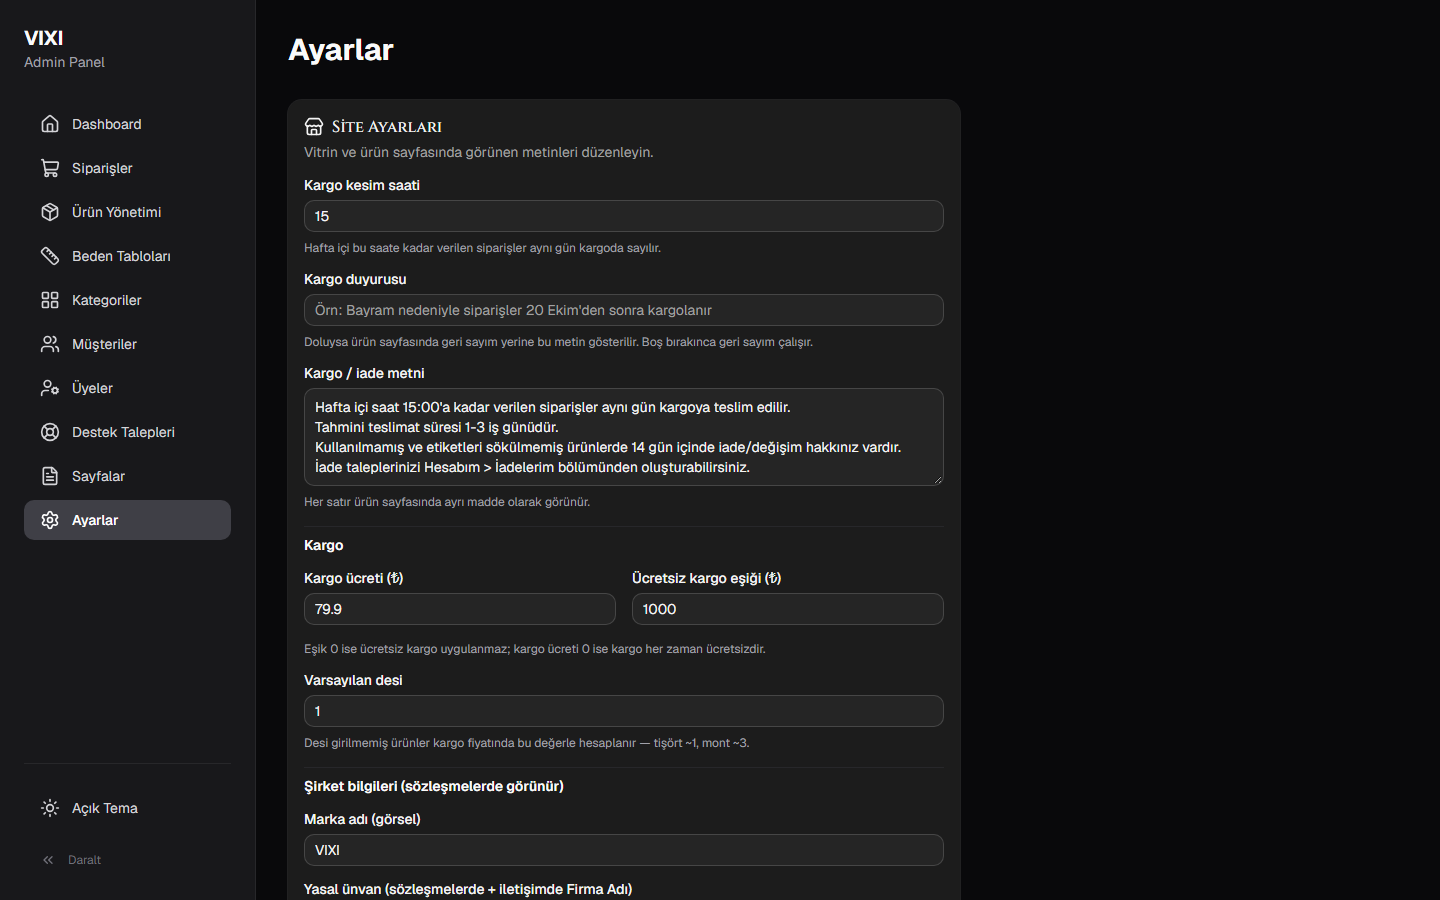
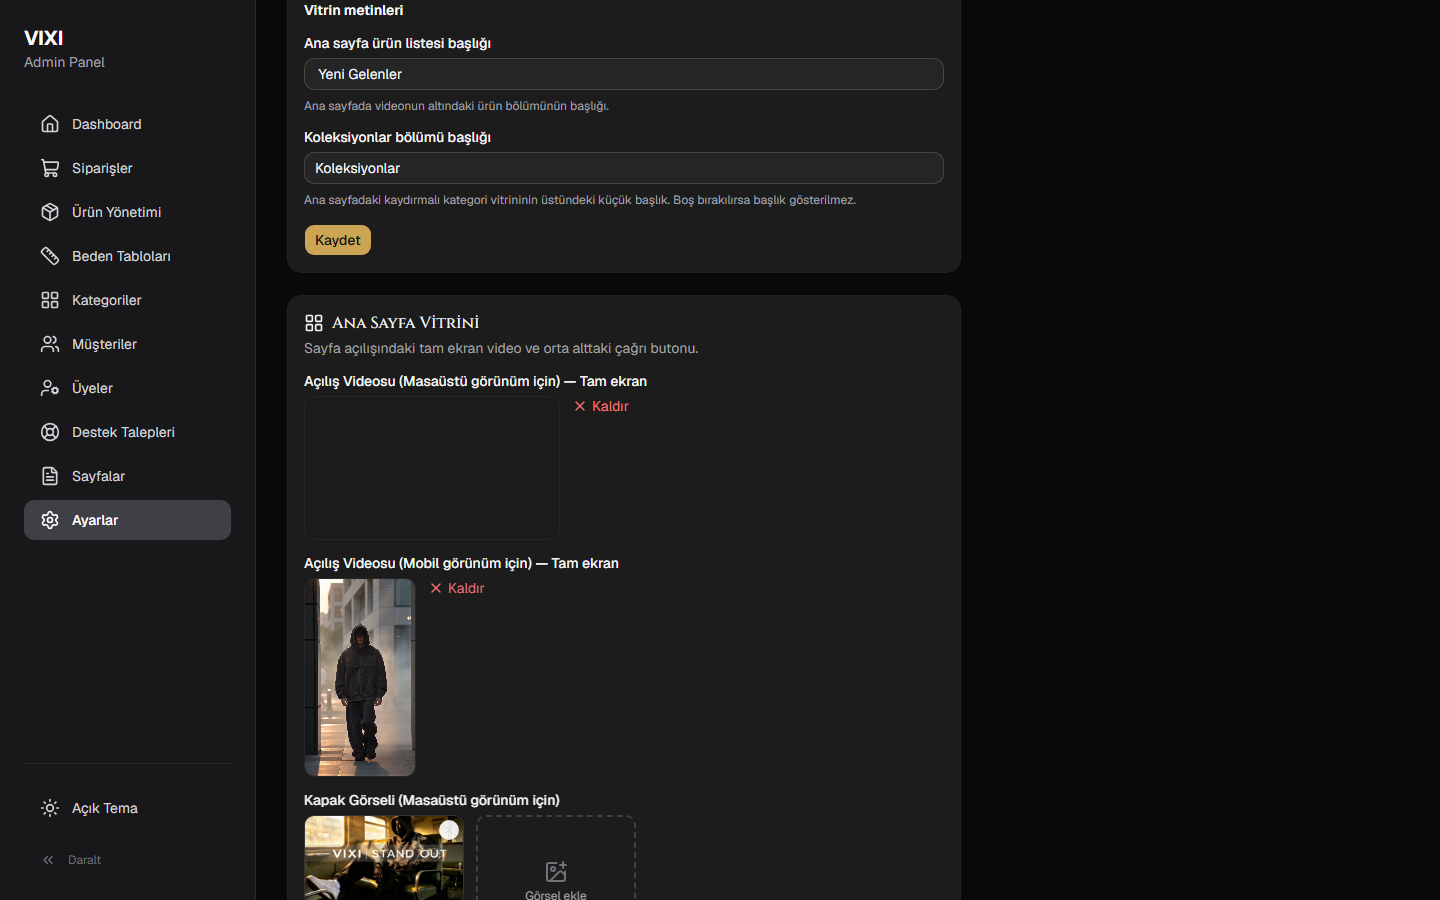
Vitrin settings shot, lightbox gallery, copy fixes

Changed region(s): [[0.1875, 0.0, 0.6562, 0.56], [0.1875, 0.5911, 0.5625, 1.0]]

diff --git a/index.html b/index.html
@@ -38,8 +38,17 @@ h2::after{content:'';display:block;width:48px;height:3px;background:var(--gold);
 .feat div{background:rgba(255,255,255,.03);border:1px solid var(--border);border-radius:10px;padding:14px 16px;font-size:14px;color:#c9c9d2}
 .feat b{color:var(--gold);display:block;font-size:13px;letter-spacing:.5px;text-transform:uppercase;margin-bottom:4px}
 .shots{display:grid;grid-template-columns:1fr 1fr;gap:14px;margin-top:22px}
-.shots img{width:100%;border-radius:10px;border:1px solid var(--border);display:block}
-.shots img.tall{grid-column:span 1}
+.shots img{width:100%;border-radius:10px;border:1px solid var(--border);display:block;cursor:zoom-in;transition:border-color .2s}
+.shots img:hover{border-color:var(--gold)}
+.lb{position:fixed;inset:0;background:rgba(0,0,0,.92);z-index:100;display:none;align-items:center;justify-content:center;flex-direction:column;padding:30px}
+.lb.open{display:flex}
+.lb img{max-width:92vw;max-height:80vh;border-radius:10px;border:1px solid var(--border)}
+.lb-cap{color:var(--muted);margin-top:14px;font-size:14px;letter-spacing:.5px}
+.lb-btn{position:absolute;background:rgba(255,255,255,.07);border:1px solid var(--border);color:var(--text);width:46px;height:46px;border-radius:50%;font-size:24px;cursor:pointer;display:flex;align-items:center;justify-content:center;transition:.15s}
+.lb-btn:hover{background:var(--gold);color:#0a0a0b;border-color:var(--gold)}
+.lb-x{top:20px;right:20px}
+.lb-p{left:16px;top:50%;transform:translateY(-50%)}
+.lb-n{right:16px;top:50%;transform:translateY(-50%)}
 .svc{display:grid;grid-template-columns:repeat(auto-fit,minmax(300px,1fr));gap:18px}
 .svc .card h3{color:var(--gold);font-size:16px;margin-bottom:10px}
 .svc .card ul{list-style:none;font-size:14px;color:#c9c9d2}
@@ -65,7 +74,7 @@ footer{border-top:1px solid var(--border);padding:30px 0;text-align:center;color
 </div></nav>
 
 <header class="hero"><div class="wrap">
-  <div class="kicker">Sıfırdan ve kanıtlanmış mimariden</div>
+  <div class="kicker">Sıfırdan ve kanıtlanmış mimari ile</div>
   <h1>İşletmeniz için <em>uçtan uca</em><br>e-ticaret platformu hazırlayalım</h1>
   <p>Ödeme, kargo, fatura, üyelik ve admin paneli dahil — canlıda çalışan, satış alan, size özgü e-ticaret platformunuzu oluşturalım; bağımsız ticarete başlayın.</p>
   <a class="btn solid" href="#iletisim">Projenizi Konuşalım</a>
@@ -86,26 +95,26 @@ footer{border-top:1px solid var(--border);padding:30px 0;text-align:center;color
     <div class="feat">
       <div><b>Ödeme</b>İyzico CheckoutForm · 3D Secure · taksit · kart saklama</div>
       <div><b>Kargo</b>Tüm firmalar (Yurtiçi, MNG, Aras, Hepsijet…) · teklif→barkod→etiket→takip · iade kodu</div>
-      <div><b>Fatura</b>BirFatura e-Arşiv/e-Fatura otomatik kesim + PDF maili</div>
+      <div><b>Fatura</b>e-Arşiv/e-Fatura otomatik kesim + müşteriye PDF maili</div>
       <div><b>Üyelik</b>Telefon OTP + e-posta · adres · favoriler · iade · destek</div>
       <div><b>Admin</b>Sipariş/ürün/stok/üye yönetimi · Telegram bildirimleri</div>
       <div><b>Pazarlama</b>GA4 · Meta Pixel+CAPI · Clarity · Merchant feed · SEO</div>
     </div>
     <div class="shots">
-      <img src="screenshots/desktop-home.png" alt="VIXI ana sayfa">
-      <img src="screenshots/desktop-categories.png" alt="VIXI kategori vitrini">
-      <img src="screenshots/desktop-products.png" alt="VIXI ürün listesi">
-      <img src="screenshots/desktop-product.png" alt="VIXI ürün detayı">
-      <img src="screenshots/desktop-checkout.png" alt="VIXI güvenli ödeme">
-      <img src="screenshots/hesabim.png" alt="VIXI üye hesabı">
+      <img src="screenshots/desktop-home.png" alt="Vitrin — ana sayfa">
+      <img src="screenshots/desktop-categories.png" alt="Vitrin — koleksiyonlar">
+      <img src="screenshots/desktop-products.png" alt="Vitrin — ürün listesi">
+      <img src="screenshots/desktop-product.png" alt="Vitrin — ürün detayı">
+      <img src="screenshots/desktop-checkout.png" alt="Vitrin — güvenli ödeme">
+      <img src="screenshots/hesabim.png" alt="Vitrin — üye hesabı">
     </div>
     <h3 style="margin-top:26px;font-size:20px;color:var(--gold);text-align:center">Admin Paneli</h3>
     <p style="font-size:15px;color:var(--muted);margin-bottom:4px;text-align:center">Site sahibi her şeyi kendisi yönetir — sipariş, ürün, stok, müşteri, vitrin ayarları:</p>
     <div class="shots" style="margin-top:10px">
-      <img src="screenshots/admin-dashboard.png" alt="Admin dashboard">
-      <img src="screenshots/admin-orders.png" alt="Admin sipariş yönetimi">
-      <img src="screenshots/admin-products.png" alt="Admin ürün yönetimi">
-      <img src="screenshots/admin-ayarlar.png" alt="Admin site ayarları">
+      <img src="screenshots/admin-dashboard.png" alt="Admin — gösterge paneli">
+      <img src="screenshots/admin-orders.png" alt="Admin — sipariş yönetimi">
+      <img src="screenshots/admin-products.png" alt="Admin — ürün yönetimi">
+      <img src="screenshots/admin-ayarlar.png" alt="Admin — vitrin ayarları">
     </div>
     <p style="margin-top:18px;font-size:14px">
       Teknik detay: <a href="https://github.com/ercancelikbusiness/vixi-ecommerce-case-study">vixi-ecommerce-case-study</a> — mimari, kararlar, ekran görüntüleri
@@ -169,5 +178,23 @@ footer{border-top:1px solid var(--border);padding:30px 0;text-align:center;color
 <footer><div class="wrap">
   © 2026 Ercan Çelik
 </div></footer>
+
+<div class="lb" id="lb">
+  <button class="lb-btn lb-x" onclick="lbClose()" aria-label="Kapat">✕</button>
+  <button class="lb-btn lb-p" onclick="lbNav(-1)" aria-label="Önceki">‹</button>
+  <img id="lbImg" src="" alt="">
+  <div class="lb-cap" id="lbCap"></div>
+  <button class="lb-btn lb-n" onclick="lbNav(1)" aria-label="Sonraki">›</button>
+</div>
+<script>
+const lbImgs=[...document.querySelectorAll('.shots img')];let lbI=0;
+const lbEl=document.getElementById('lb'),lbImg=document.getElementById('lbImg'),lbCap=document.getElementById('lbCap');
+function lbOpen(i){lbI=i;lbImg.src=lbImgs[i].src;lbImg.alt=lbImgs[i].alt;lbCap.textContent=lbImgs[i].alt;lbEl.classList.add('open');document.body.style.overflow='hidden'}
+function lbNav(d){lbOpen((lbI+d+lbImgs.length)%lbImgs.length)}
+function lbClose(){lbEl.classList.remove('open');document.body.style.overflow=''}
+lbImgs.forEach((im,i)=>im.addEventListener('click',()=>lbOpen(i)));
+lbEl.addEventListener('click',e=>{if(e.target===lbEl)lbClose()});
+document.addEventListener('keydown',e=>{if(!lbEl.classList.contains('open'))return;if(e.key==='Escape')lbClose();if(e.key==='ArrowLeft')lbNav(-1);if(e.key==='ArrowRight')lbNav(1)});
+</script>
 </body>
 </html>
